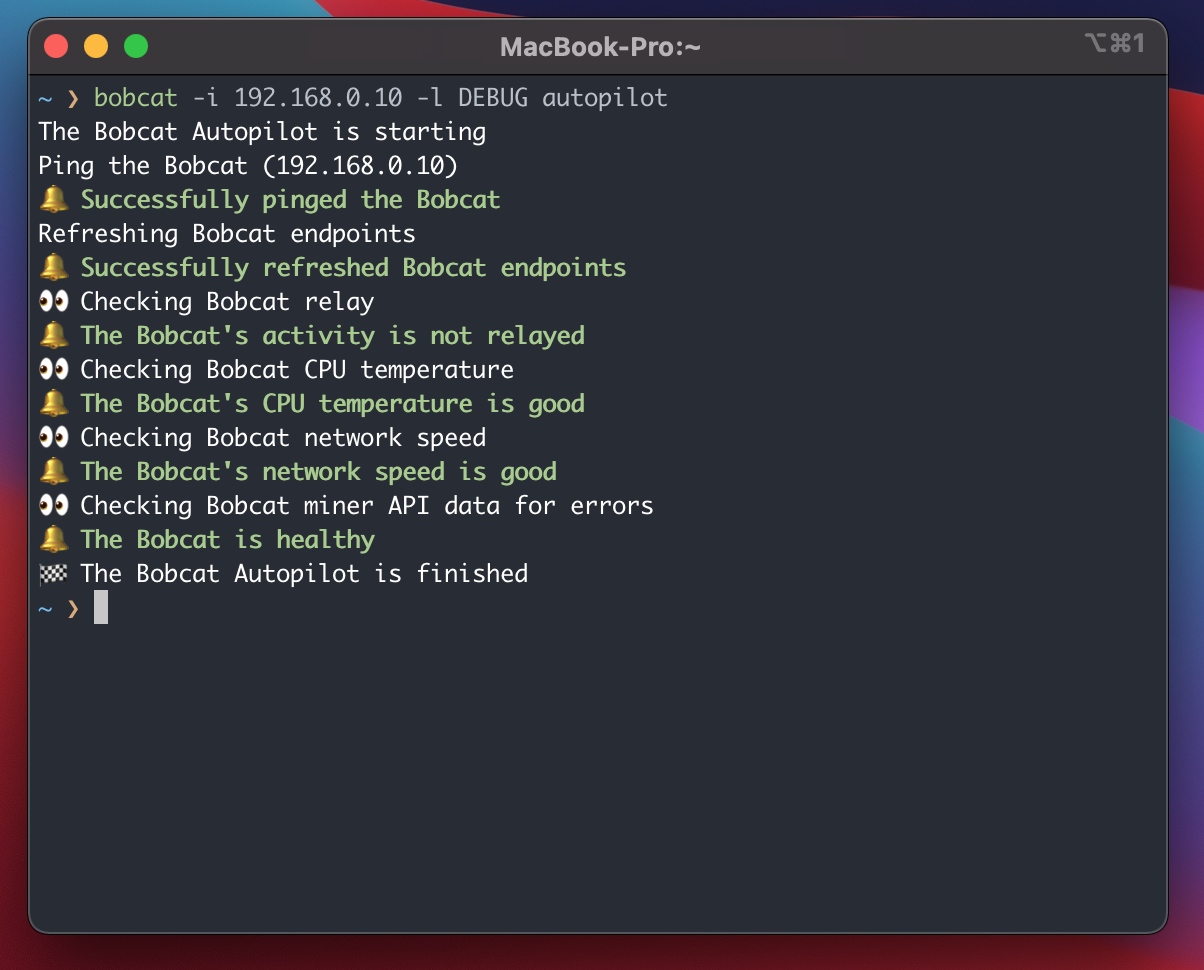
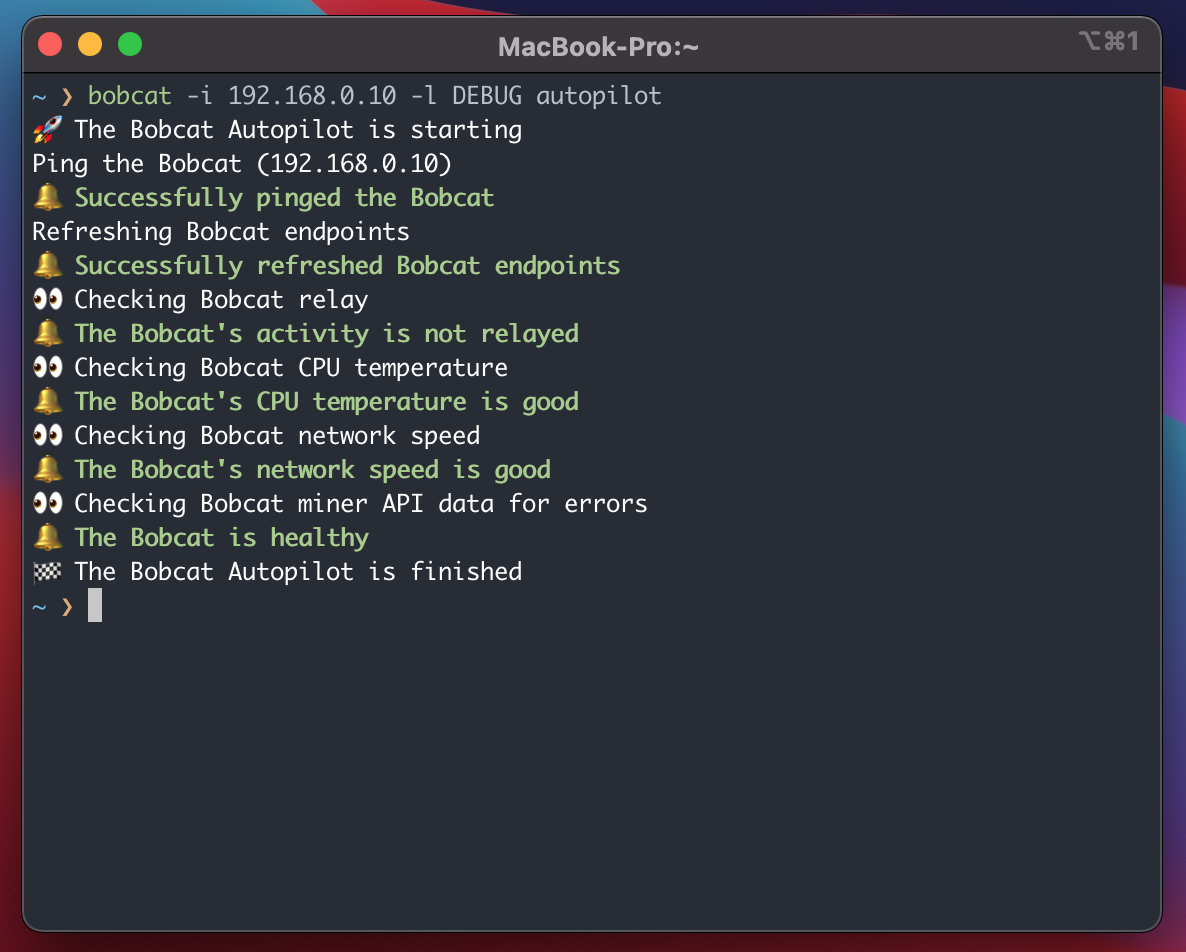
fixed readme image

Changed region(s): [[0.0, 0.0, 1.0, 1.0]]

diff --git a/README.md b/README.md
@@ -37,9 +37,8 @@ The `bobcat` command line tool accepts both command line options and environment
 Diagnostics checks will run and all actions will be skipped during a Bobcat dry run.
 
 ```bash
-$ bobcat -i 192.168.0.10 --dry-run autopilot
+$ bobcat -i 192.168.0.10 -l DEBUG --dry-run autopilot
 🚧 Bobcat Autopilot Dry Run Enabled. Actions such as reboot, reset, resync, and fastsync will be skipped. Wait times will only last 1 second.
-🚀 The Bobcat Autopilot is starting
 ```
 
 ### Discord Monitoring
@@ -47,6 +46,7 @@ $ bobcat -i 192.168.0.10 --dry-run autopilot
 Send `bobcat` logs to a Discord channel using a [webhook url](https://support.discord.com/hc/en-us/articles/228383668-Intro-to-Webhooks)
 
 ```bash
+$ export BOBCAT_LOG_LEVEL=DEBUG
 $ export BOBCAT_IP_ADDRESS=192.168.0.10
 $ export BOBCAT_DISCORD_WEBHOOK_URL=https://discord.com/api/webhooks/xxx/xxx
 $ bobcat autopilot
